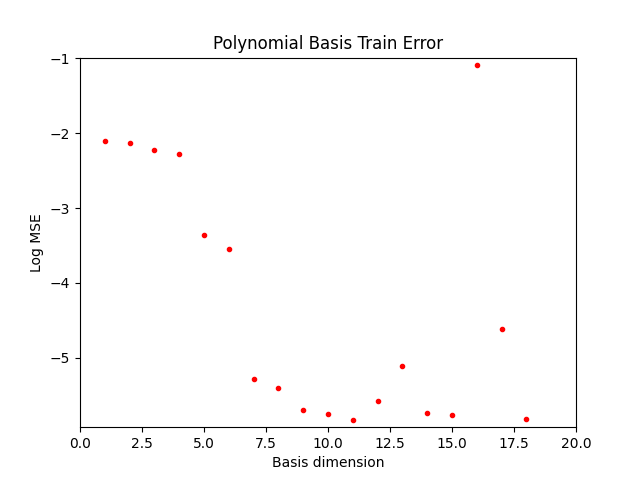
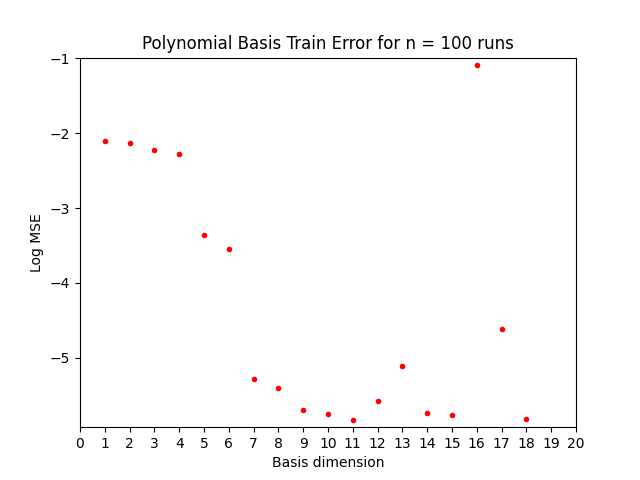
Add updated loss figures with integer x-axis labels

diff --git a/src/overfitting.py b/src/overfitting.py
@@ -6,6 +6,7 @@ import argparse
 import numpy as np
 import pandas as pd
 import matplotlib.pyplot as plt
+import matplotlib.ticker as mticker
 
 from src.linear_regression import get_polynomial_basis, get_sol, get_predictions 
 from src.linear_regression import get_mse, get_ln_mse, run_polynomial_regression, plot_regression_predictions
@@ -13,10 +14,16 @@ from src.linear_regression import get_mse, get_ln_mse, run_polynomial_regression
 
 def get_true_function(x): 
     '''
-    ---------------------
-    Input:
-    Output: 
-    ---------------------
+    ---------------------------
+    Input: x values
+    Output: [sin 2 * pi * x]^2
+
+    This function transforms
+    the given x value determini-
+    stically into a y_value 
+    according to the reference
+    equation given in the question.
+    --------------------------
     '''
     y_true = np.power(np.sin(2*math.pi*x),2)
     return y_true
@@ -25,8 +32,14 @@ def get_true_function(x):
 def add_noise(y_true, loc = 0, sd = 0.07):
     '''
     ---------------------
-    Input:
-    Output: 
+    Input: 1) True y_values
+           2) noise distribution mean
+           3) noise distribution standard deviation
+    Output: True y_values + random noise
+
+    This function takes in 'true' y values that
+    are deterministically generated and adds 
+    noise to them according to the given parameters
     ---------------------
     '''
     y_obs = y_true + np.random.normal(loc, sd, y_true.shape)
@@ -36,8 +49,14 @@ def add_noise(y_true, loc = 0, sd = 0.07):
 def get_sin_basis(x, k):
     '''
     ---------------------
-    Input:
+    Input: 1) X-values
+           2) dimension of expected basis
     Output: 
+
+    This function takes in x values and
+    a user input for k: the dimension of
+    the expected basis function and returns
+    the basis function
     ---------------------
     '''
     dims = np.arange(1, k + 1)
@@ -47,11 +66,19 @@ def get_sin_basis(x, k):
 
 def run_sin_regression(k, x, y):
     '''
-    ------------------------
-    Input: Dataset and degree
-    Output: Assignment data
-    ------------------------
-    ''' 
+    ---------------------
+    Input: 1) x: X values
+           2) k: dimension of basis being used to
+           3) y: observed y values
+    Output: 
+
+    This function takes in x values and
+    y values as well as a user input for k: 
+    the dimension of the expected basis 
+    function and returns regression 
+    results from running y ~ sin_basis(x, k)
+    ---------------------
+    '''
     phi_x = get_sin_basis(x, k)
     beta_hat = get_sol(phi_x, y)
     y_hat = get_predictions(phi_x, beta_hat)
@@ -69,13 +96,24 @@ def run_sin_regression(k, x, y):
 def get_data(n, min_x, max_x, sd):
     '''
     ---------------------
-    Input:
-    Output: 
+    Input: n: no. of values to generate
+           min_x: minimum threshold for x
+           max_x: maximum threshold for x
+           sd: noise distribution standard deviation to 
+                add to y-values
+    Output: x: Generated x values from the uniform distribution
+            y_true: 'True y' values generated deterministically
+                    as a function of x
+            y_obs: Y-values with noise added
     ---------------------
     '''
+    # Generate the x-values
     x = np.random.uniform(min_x, max_x, n)
     
+    # Generate the 'true' y values
     y_true = get_true_function(x)
+
+    # Add noise to the y values
     y_obs = add_noise(y_true, sd = sd)
     
     return x, y_true, y_obs
@@ -85,8 +123,11 @@ def get_data(n, min_x, max_x, sd):
 def plot_data(x, y_obs, path):
     '''
     ------------------------
-    Input: Dataset and degree
-    Output: Assignment data
+    Input: 1) x: data x values
+           2) y_obs: data y values
+           3) path: output path to send the plot
+    Output: Plot of data with true function 
+            superimposed over noisy data points
     ------------------------
     '''
     # Close any figures currently open
@@ -122,8 +163,10 @@ def plot_data(x, y_obs, path):
 def plot_regression_loss(losses, highest_k, path, title, xlab = "Basis dimension", ylab = "Log MSE"):
     '''
     ------------------------
-    Input: Dataset and degree
-    Output: Assignment data
+    Input: Loss values (log MSE in our case) and the highest dimension to
+    iterate to, other misc. plot parameters
+    Output: Plot of regression losses by dimension of basis sent
+    to the specified path
     ------------------------
     '''
     # Close any currently open plots
@@ -140,10 +183,11 @@ def plot_regression_loss(losses, highest_k, path, title, xlab = "Basis dimension
     plt.ylabel(ylab)
     plt.title(title)
     
-    # Get current access
+    # Get current axes and set limits
     axes = plt.gca()
     axes.set_xlim([0,20])
     axes.set_ylim([min(losses) - 0.1, max(losses) + 0.1])
+    axes.xaxis.set_major_locator(mticker.MultipleLocator(1))
 
     # Show plots as a check
     plt.savefig(path)
@@ -152,10 +196,12 @@ def plot_regression_loss(losses, highest_k, path, title, xlab = "Basis dimension
 
 def get_test_mse(x_test, y_test, results, get_basis, k = 18):
     '''
-    ---------------------
-    Input: Parameters needed for data
-    Output: output
-    ---------------------
+    ------------------------
+    Input: X_test
+    iterate to, other misc. plot parameters
+    Output: Plot of regression losses by dimension of basis sent
+    to the specified path
+    ------------------------
     '''
     # Get features
     x_basis = [get_basis(x_test, dim) for dim in range(1, k + 1)]
@@ -227,7 +273,7 @@ def main(basis = 'polynomial',
          path_test_loss_multiple = os.path.join(".", "figs", '1_2_test_loss_100_runs_{}.png')):
     '''
     ---------------------
-    Input: Parameters needed for data
+    This function runs the main loop for the question. 
     Output: output
     ---------------------
     '''
@@ -278,10 +324,10 @@ def main(basis = 'polynomial',
 
         # Store results
         results = execute_train_loss_plots(x, y_obs, start_dim, end_dim, path_train_loss, run_regression, 
-                                           title = "{} Basis Train Error".format(basis.title()))
+                                           title = "{} Basis Train Error for n = 1".format(basis.title()))
         
         ln_mse_test = execute_test_loss_plots(x_test, y_test_obs, results, end_dim, path_test_loss, get_basis, 
-                                              title = "{} Basis Test Error".format(basis.title()))
+                                              title = "{} Basis Test Error for n = 1".format(basis.title()))
 
     # This is for multiple runs to return average MSE
     elif n_runs > 1:
@@ -289,7 +335,7 @@ def main(basis = 'polynomial',
         # Create list to store results
         results = []
         
-        # Call the process for the no. of runs input by the user
+        # Do this for the no. of runs that the user inputs
         for counter in range(n_runs):
             
             # Print progress
@@ -299,7 +345,7 @@ def main(basis = 'polynomial',
             x, y_true, y_obs = get_data(n_train_samples, min_x, max_x, sigma)
             x_test, y_test_true, y_test_obs = get_data(n_test_samples, min_x, max_x, sigma)
 
-            # Store dimensions to iterate over and then run polynomial regressions
+            # Store dimensions to iterate over and then run regressions
             dims = range(start_dim, end_dim + 1)
             results_from_single_run = [run_regression(k, x, y_obs) for k in dims]
 
@@ -316,7 +362,7 @@ def main(basis = 'polynomial',
             results.append(results_from_single_run)
 
         
-        # Store the average
+        # Store the average MSEs as an array in both train and test
         mse = [np.mean(np.array([results[run][degree]['mse'] for run in range(n_runs)])) 
                for degree in range(end_dim)]
         
@@ -328,9 +374,8 @@ def main(basis = 'polynomial',
         ln_mse_test = np.log(mse_test)
 
         # Now make plots 
-        plot_regression_loss(ln_mse, end_dim, path_train_loss_multiple, title = "{} Basis Train Error".format(basis.title()))
-        plot_regression_loss(ln_mse_test, end_dim, path_test_loss_multiple, title = "{} Basis Test Error".format(basis.title()))
-
+        plot_regression_loss(ln_mse, end_dim, path_train_loss_multiple, title = "{} Basis Train Error for n = {} runs".format(basis.title(), n_runs))
+        plot_regression_loss(ln_mse_test, end_dim, path_test_loss_multiple, title = "{} Basis Test Error for n = {} runs".format(basis.title(), n_runs))
 
     # Return results
     return(results)
